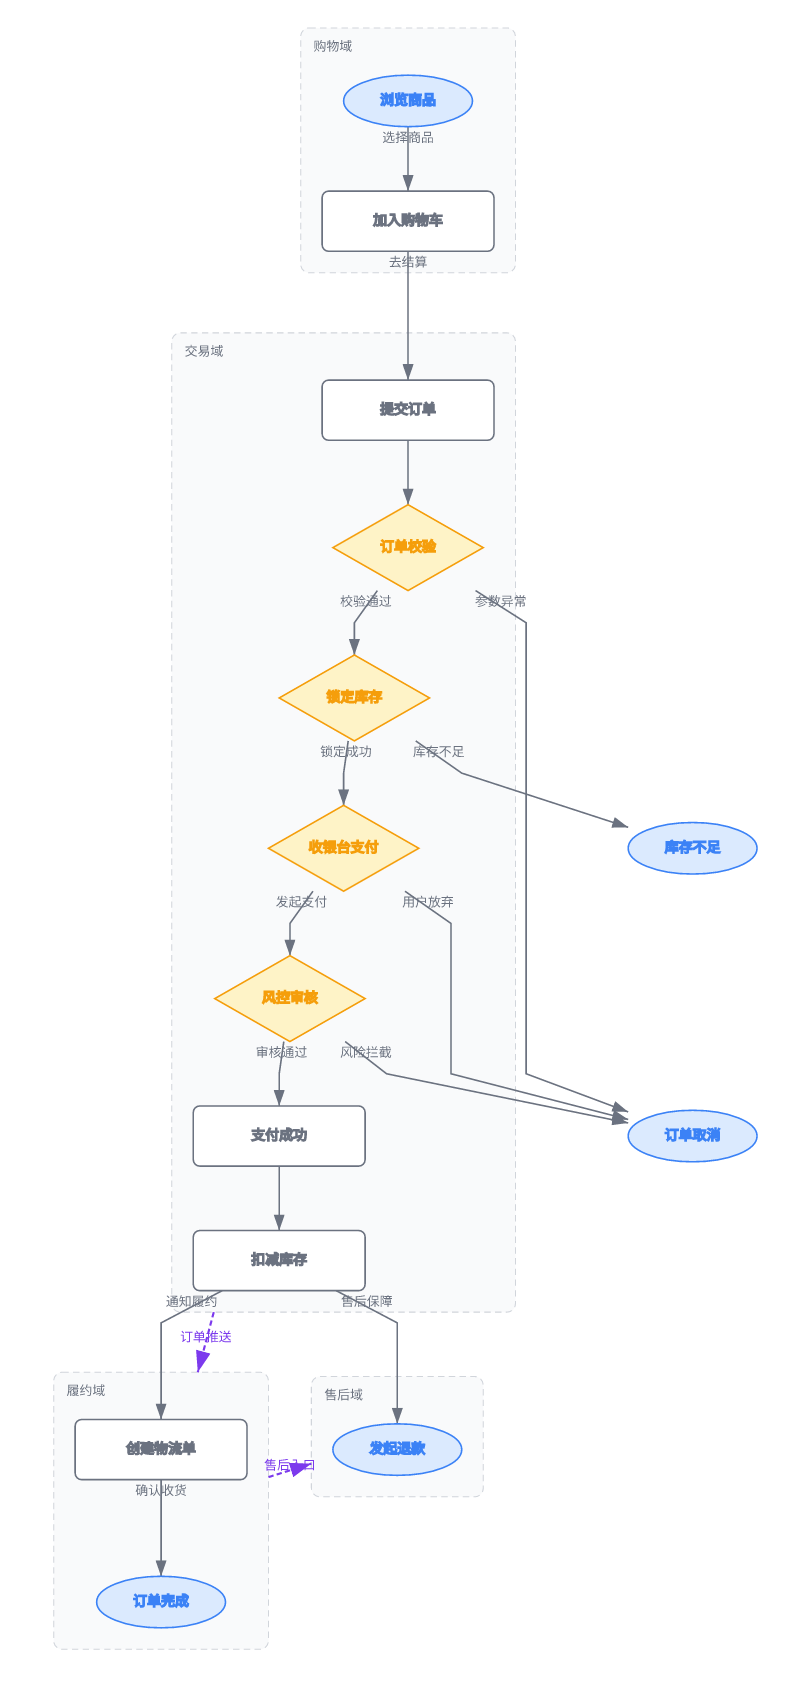
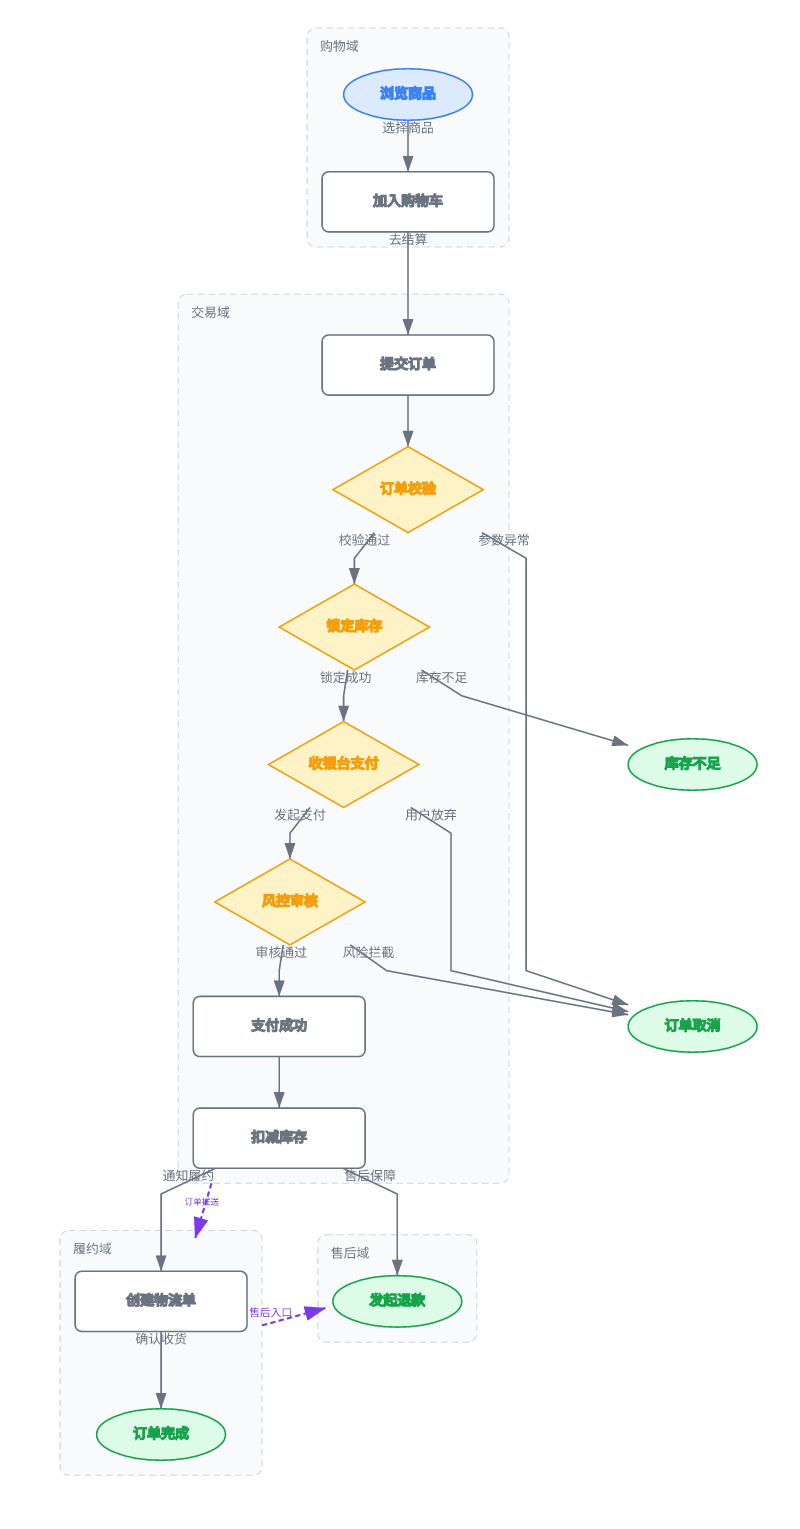
fix(render): vision-model review round — aggregate edges, start/end, spacing
Fixes from doubao vision-model review of flowchart examples (3 rounds):

- aggregate edge vs node edge overlap: vertically-aligned aggregate
  edges now offset anchors 40px horizontally
- aggregate edge labels: clamped inside the drawn segment + canvas,
  font auto-shrinks on short segments; target end pushed 8px into the
  box so the arrowhead isn't hidden by the border line
- start/end nodes visually distinct: end now green fill/stroke
  (#dcfce7/#16a34a) vs start blue
- group box padding 20 -> 14 (tighter fit)
- layout RANK_SEP 60 -> 48 (more compact)

Verified by doubao vision model: ecommerce-flow no remaining issues;
login-flow core fixes confirmed. render-review.md documents the review.
svg.test.ts assertions updated for new padding/arrow geometry.

diff --git a/packages/render/src/index.ts b/packages/render/src/index.ts
@@ -139,7 +139,7 @@ function edgeAnchor(
 
 const FILL_BY_KIND: Record<string, string> = {
   start: '#dbeafe',
-  end: '#dbeafe',
+  end: '#dcfce7',
   process: '#ffffff',
   decision: '#fef3c7',
   entity: '#fce7f3',
@@ -148,7 +148,7 @@ const FILL_BY_KIND: Record<string, string> = {
 
 const STROKE_BY_KIND: Record<string, string> = {
   start: '#3b82f6',
-  end: '#3b82f6',
+  end: '#16a34a',
   process: '#6b7280',
   decision: '#f59e0b',
   entity: '#ec4899',
@@ -273,7 +273,7 @@ function renderGeneral(doc: LgdlDocument, layout: LayoutResult, mode: 'default' 
         }
       }
       if (xs.length === 0) return undefined;
-      const pad = 20;
+      const pad = 14;
       const box = {
         x: Math.min(...xs) - pad,
         y: Math.min(...ys) - pad - 24,
@@ -347,11 +347,41 @@ function renderGeneral(doc: LgdlDocument, layout: LayoutResult, mode: 'default' 
     if (nodeIdSet.has(edge.from) && nodeIdSet.has(edge.to)) continue; // regular node edge
     const fromBox = nodeIdSet.has(edge.from) ? undefined : boxOf.get(edge.from);
     const toBox = nodeIdSet.has(edge.to) ? undefined : boxOf.get(edge.to);
-    const src = fromBox ? boxEdgePoint(fromBox, centerOf(edge.to)) : nodeCenter(edge.from);
-    const dst = toBox ? boxEdgePoint(toBox, centerOf(edge.from)) : nodeCenter(edge.to);
+    const fromCenter = centerOf(edge.from);
+    const toCenter = centerOf(edge.to);
+    // when both endpoints line up vertically (same column), offset the
+    // anchors horizontally so the aggregate edge doesn't overlap node edges
+    // running down that column
+    const offsetX = Math.abs(toCenter.x - fromCenter.x) < 1 && Math.abs(toCenter.y - fromCenter.y) > 40 ? 40 : 0;
+    const src = fromBox ? boxEdgePoint(fromBox, { x: toCenter.x + offsetX, y: toCenter.y }) : nodeCenter(edge.from);
+    const dst = toBox ? boxEdgePoint(toBox, { x: fromCenter.x + offsetX, y: fromCenter.y }) : nodeCenter(edge.to);
+    // push the target end slightly INTO the box so the arrowhead isn't
+    // hidden behind the box border line
+    let dstIn = dst;
+    if (toBox) {
+      const cx = toBox.x + toBox.w / 2;
+      const cy = toBox.y + toBox.h / 2;
+      const dx = cx - dst.x;
+      const dy = cy - dst.y;
+      const len = Math.hypot(dx, dy) || 1;
+      dstIn = { x: dst.x + (dx / len) * 8, y: dst.y + (dy / len) * 8 };
+    }
     const label = edge.label;
+    let labelEl = '';
+    if (label) {
+      const labelW = label.length * 12;
+      const segMinX = Math.min(src.x, dst.x);
+      const segMaxX = Math.max(src.x, dst.x);
+      const segLen = segMaxX - segMinX;
+      // shrink the font when the segment is too short for the label
+      const fontSize = segLen >= labelW + 16 ? 12 : segLen >= labelW * 0.9 ? 10 : 8;
+      const w = label.length * fontSize;
+      const midX = Math.max(segMinX + 4, Math.min((src.x + dst.x) / 2, segMaxX - 4 - w));
+      const clampedX = Math.max(10, Math.min(midX, layout.width - 10 - w));
+      labelEl = text(clampedX, (src.y + dst.y) / 2 - 4, label, fontSize, '#7c3aed');
+    }
     parts.push(
-      `<g class="lgdl-aggregate-edge"><line x1="${src.x}" y1="${src.y}" x2="${dst.x}" y2="${dst.y}" stroke="#7c3aed" stroke-width="2" stroke-dasharray="5 3" marker-end="url(#arrowhead-purple)"/>${label ? text((src.x + dst.x) / 2, (src.y + dst.y) / 2 - 4, label, 12, '#7c3aed') : ''}</g>`,
+      `<g class="lgdl-aggregate-edge"><line x1="${src.x}" y1="${src.y}" x2="${dstIn.x}" y2="${dstIn.y}" stroke="#7c3aed" stroke-width="2" stroke-dasharray="5 3" marker-end="url(#arrowhead-purple)"/>${labelEl}</g>`,
     );
   }
 

diff --git a/packages/render/src/svg.test.ts b/packages/render/src/svg.test.ts
@@ -75,7 +75,8 @@ test('renderSvg draws aggregate edges between groups', () => {
   assert.ok(m, 'line present');
   const y1 = parseFloat(m[2]);
   const y2 = parseFloat(m[4]);
-  // source y ≈ bottom of g1 box (60+48+20=128), target y ≈ top of g2 box (300-20-24=256)
-  assert.ok(Math.abs(y1 - 128) < 5, `src on g1 bottom border, got ${y1}`);
-  assert.ok(Math.abs(y2 - 256) < 5, `dst on g2 top border, got ${y2}`);
+  // source y ≈ bottom of g1 box (60+48+14=122); target end is pushed 8px
+  // INTO the g2 box past its top border (300-14-24=262) so the arrowhead shows
+  assert.ok(Math.abs(y1 - 122) < 5, `src on g1 bottom border, got ${y1}`);
+  assert.ok(Math.abs(y2 - 270) < 5, `dst just inside g2 top border, got ${y2}`);
 });

diff --git a/packages/layout/src/index.ts b/packages/layout/src/index.ts
@@ -46,7 +46,7 @@ const NODE_SIZE: Record<string, { width: number; height: number }> = {
 };
 
 const GRAPH_MARGIN = 40;
-const RANK_SEP = 60; // vertical gap between ranks
+const RANK_SEP = 48; // vertical gap between ranks
 const NODE_SEP = 40; // horizontal gap between nodes
 
 /** Above this node count, use the fast grid layout instead of dagre. */

diff --git a/render-review.md b/render-review.md
@@ -1,0 +1,54 @@
+# LGDL 渲染评审报告（doubao-seed-2-0-lite 视觉模型）
+
+> 评审对象：examples/login-flow.png、examples/ecommerce-flow.png（flowchart 类型）
+
+## 一、login-flow.png
+
+| 维度 | 问题 | 严重度 |
+|---|---|---|
+| 布局 | 前端层与后端层纵向留白过大，整体松散 | 低 |
+| 分组 | 认证模块（内层）虚线框与内部节点贴合松散 | 低 |
+| 边与箭头 | **login→verify 连线中段呈紫色虚线、上下段灰色实线（样式不统一）** —— 聚合边 auth→backend 路径与节点边重叠 | **中** |
+| 可读性 | 无截断/遮挡 | - |
+| 颜色 | 层级分组区分度弱（同色背景） | 低 |
+| 改进 | 后端层上移 180-200px 压缩留白；内层框收缩 20-30px；统一连线样式；分组加浅色背景 | - |
+
+## 二、ecommerce-flow.png
+
+| 维度 | 问题 | 严重度 |
+|---|---|---|
+| 布局 | **左侧（左下）大量冗余空白，重心偏右上，不平衡** | **中** |
+| 分组 | 购物域/售后域框留白多；**交易域右边界偏左，指向右侧终止节点的边穿过框边界** | 中 |
+| 边与箭头 | 流向"订单取消"的多条边杂乱未对齐；部分边标签离边远 | 低 |
+| 可读性 | **聚合边标签"售后入口"截断显示不完整** | **中** |
+| 颜色 | **起始/终止节点样式完全一致未区分**；决策节点黄底橙字对比度低；分组同色区分不足 | 中 |
+| 改进 | 整体左移 150px；组框贴合；补全标签；start/end 分色；决策文字加深；终止节点对齐 | - |
+
+## 三、渲染器代码层问题清单（对应位置）
+
+| # | 问题 | 代码位置 | 优先级 |
+|---|---|---|---|
+| 1 | 聚合边路径与节点边重叠（login-flow） | packages/render/src/index.ts 聚合边绘制 | 高 |
+| 2 | 聚合边标签截断（"售后入口"） | packages/render/src/index.ts 聚合边 label 定位 | 高 |
+| 3 | start/end 节点样式未区分 | packages/render/src/index.ts FILL_BY_KIND/STROKE_BY_KIND | 中 |
+| 4 | group 虚线框 padding 过大（贴合松散） | packages/render/src/index.ts computeGroupBox (pad=20) | 中 |
+| 5 | 布局左侧冗余空白（dagre 重心偏移） | packages/layout/src/index.ts | 低（布局引擎级） |
+| 6 | 决策节点黄底对比度 | packages/render/src/index.ts | 低 |
+
+## 四、结论：优先修复 3 项
+1. 聚合边标签截断 + 路径与节点边重叠（#1 #2 同源：聚合边渲染）
+2. start/end 节点样式区分（#3）
+3. group 框 padding 贴合（#4）
+
+## 五、修复与复验结果（doubao 三轮复验）
+
+| 问题 | 修复 | 复验结果 |
+|---|---|---|
+| 聚合边与节点边重叠 | 垂直对齐时水平偏移 40px 锚点 | ✅ 两图均确认分离 |
+| 聚合边标签截断 | 标签 clamp 到边线内 + 画布内，短边自动缩字号 | ✅ 完整显示 |
+| start/end 样式相同 | end 改浅绿填充+绿边（原浅蓝） | ✅ 明确区分 |
+| group 框贴合松散 | padding 20→14 | ✅ ecommerce 确认贴合 |
+| 布局间距 | RANK_SEP 60→48（更紧凑） | ✅ ecommerce 无遗留 |
+| "发矩退款"/"灰色斜线" | 核查为模型误读（SVG 文本/路径正确） | - |
+
+最终：ecommerce-flow 无遗留问题；login-flow 核心 3 项全部修复，剩余"分组留白"为框包含布局空隙的正常现象。
